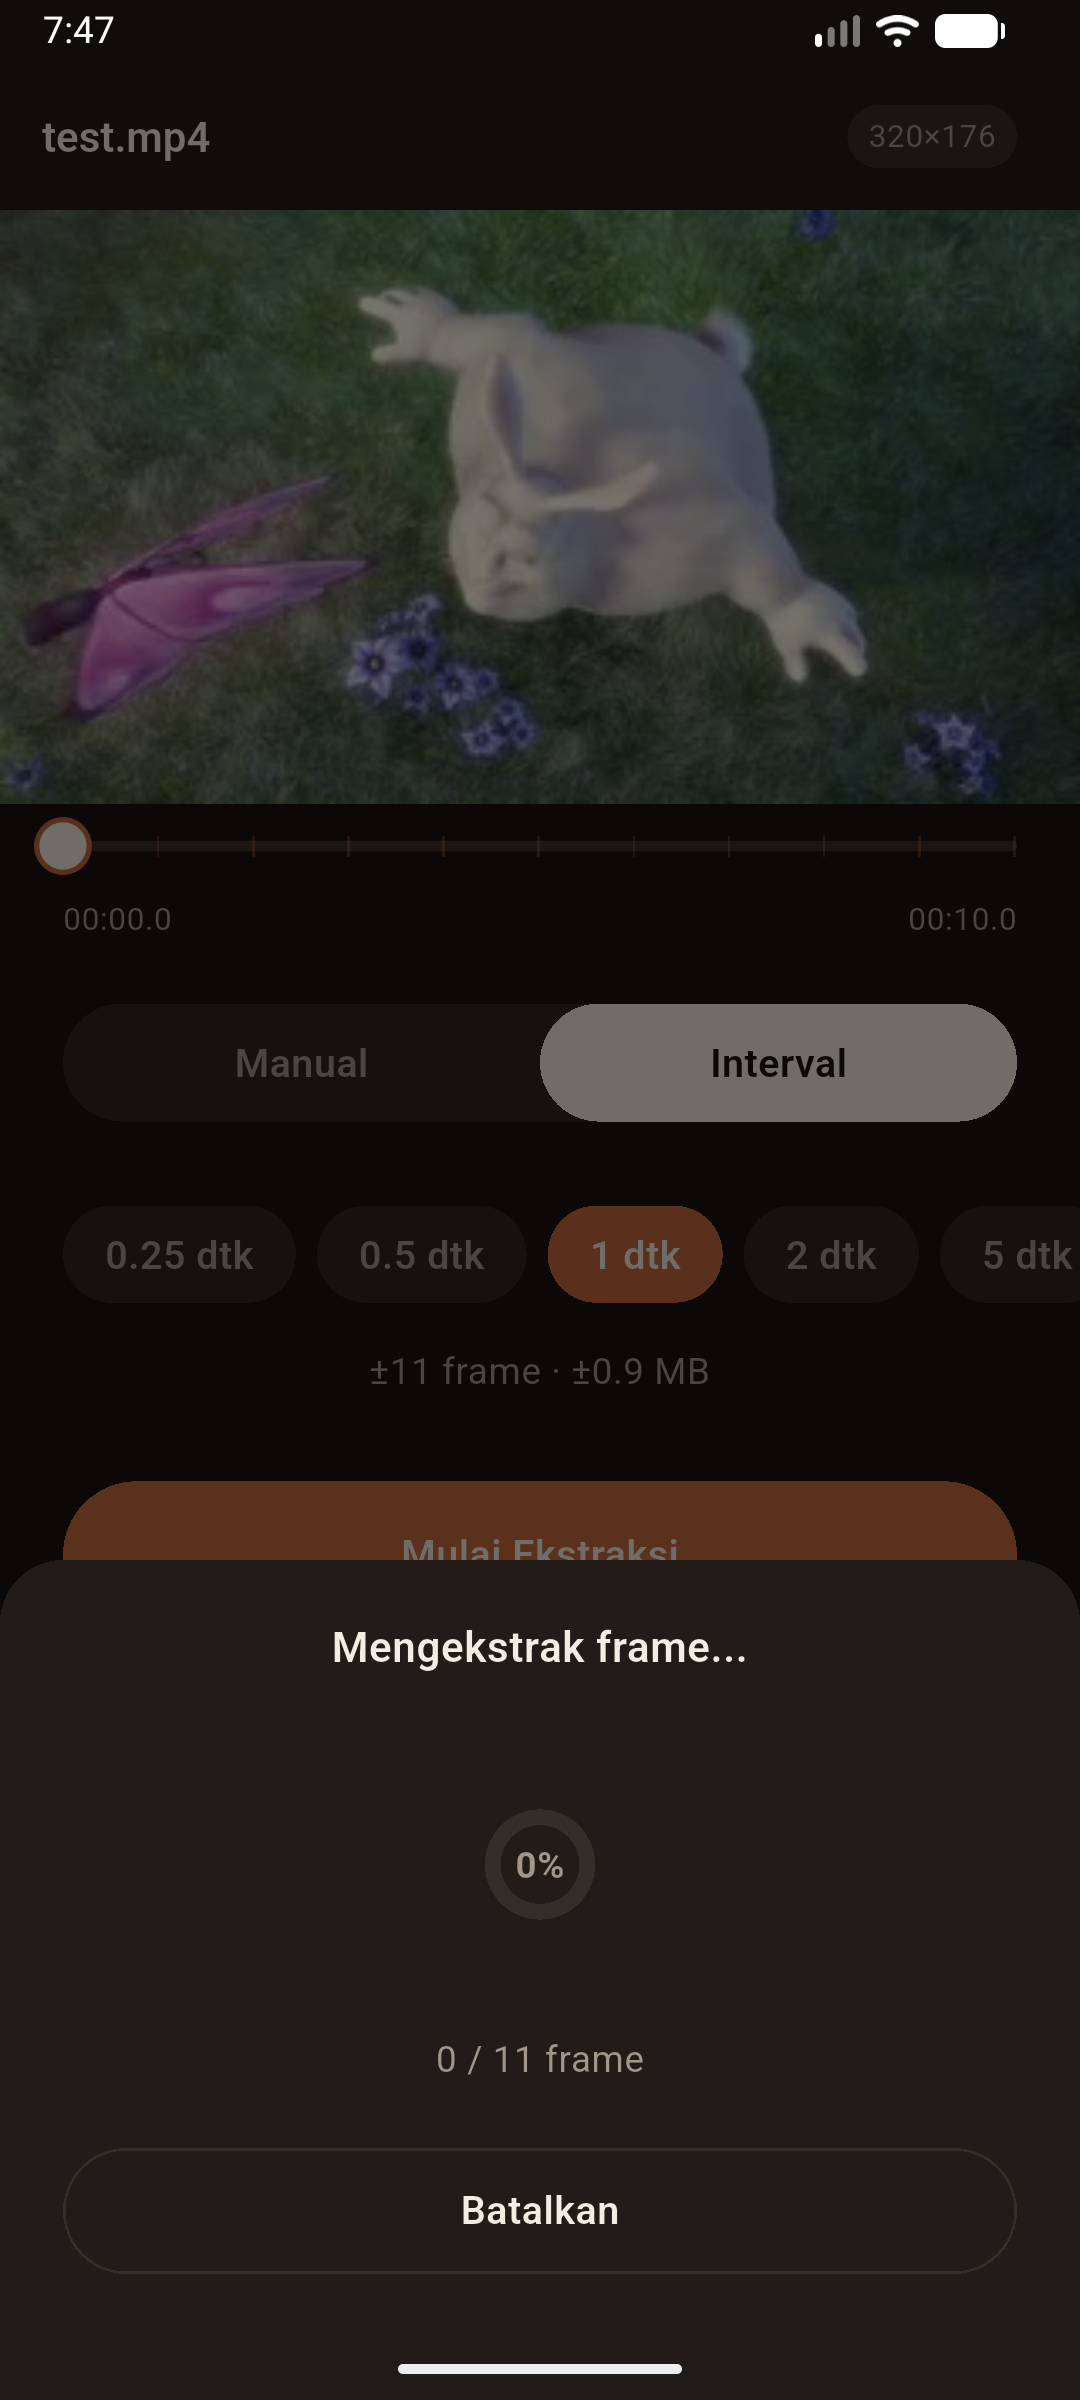
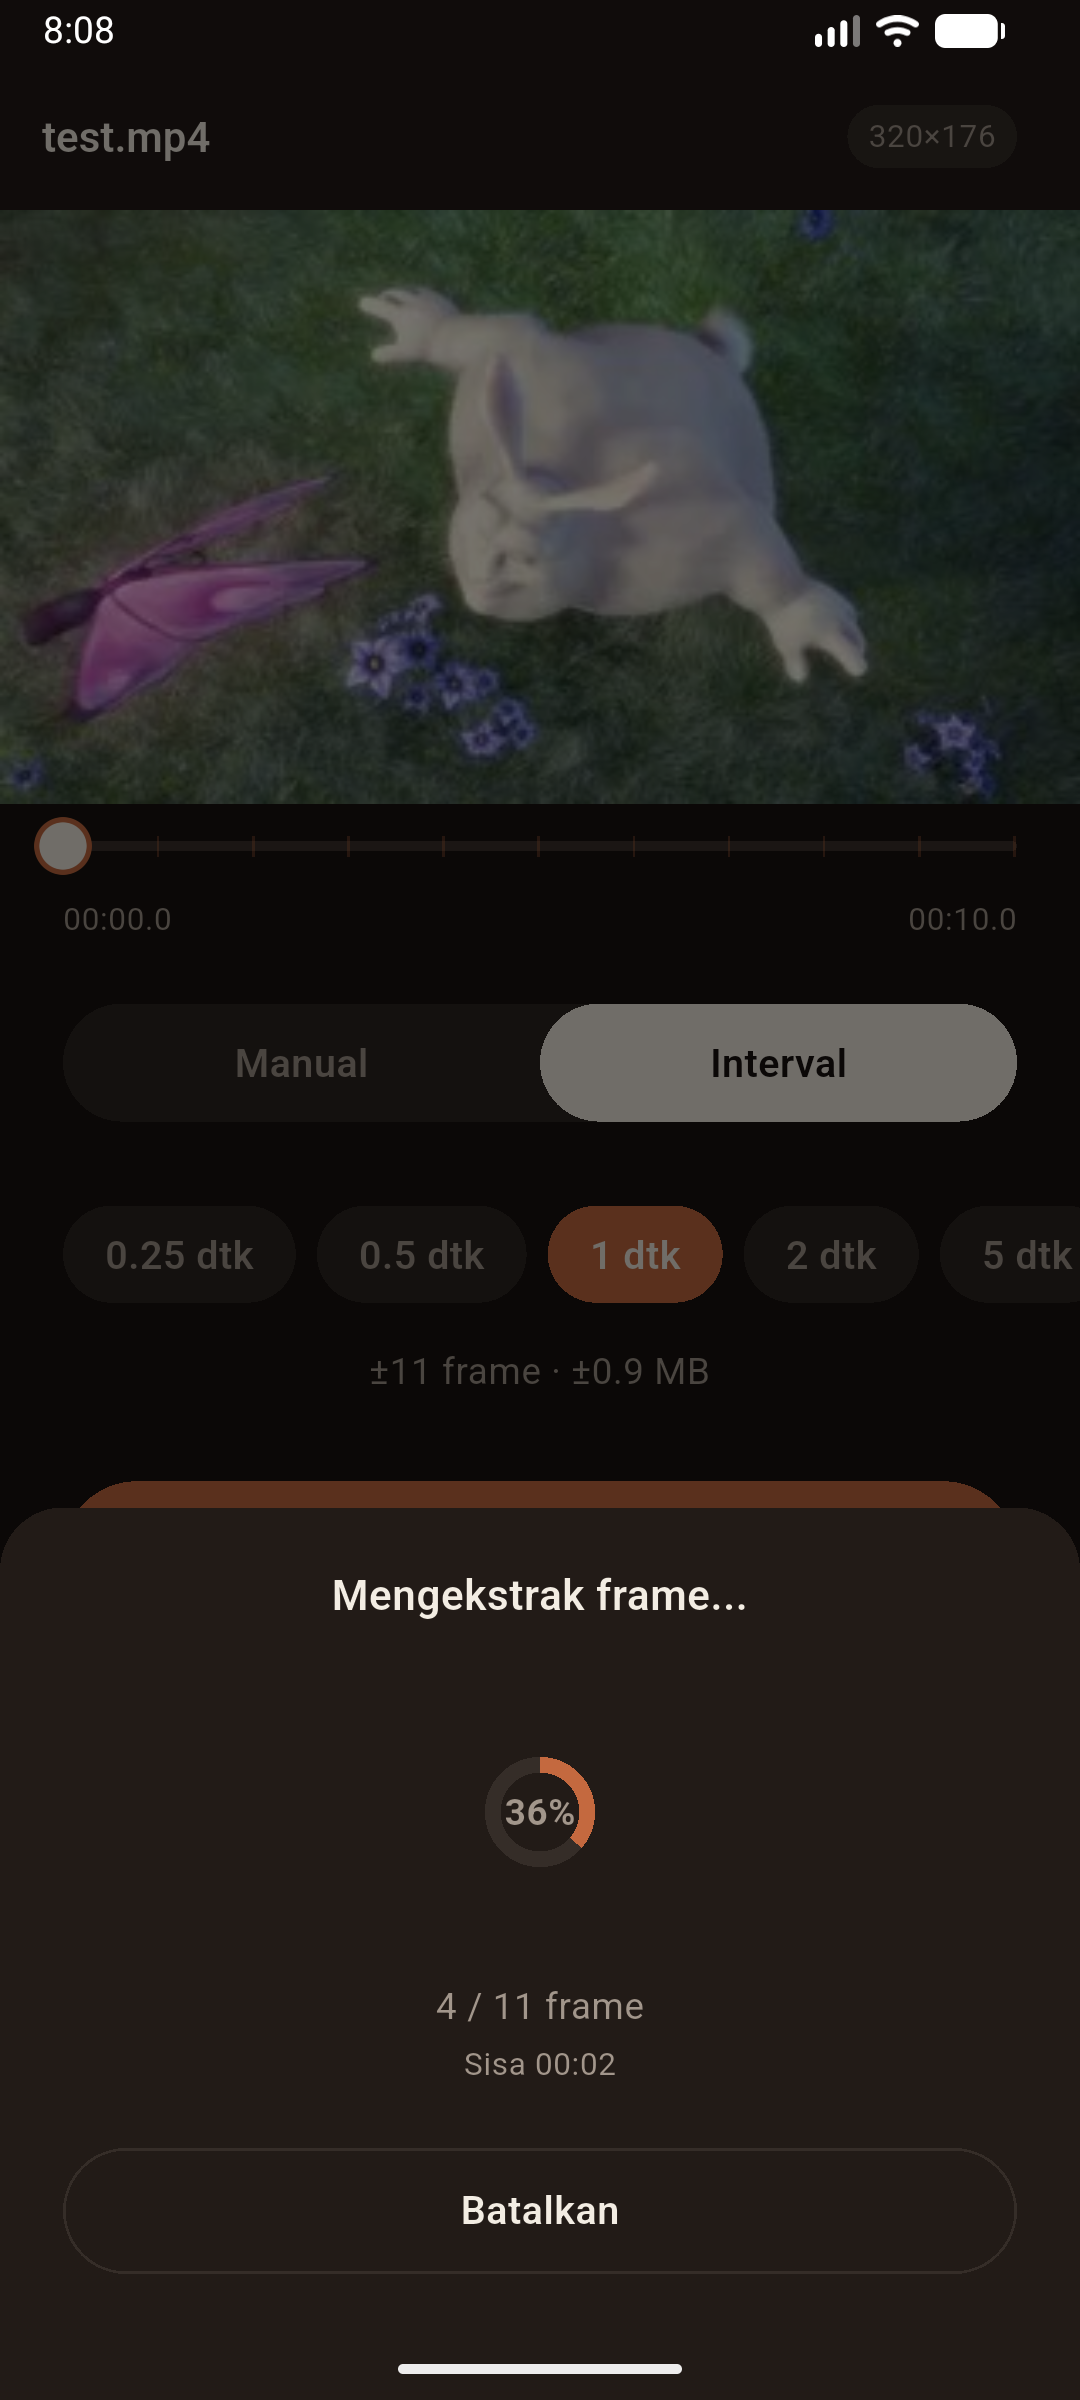
fix(tahap4): handle save frame result, wire l10n, exact decoding, and fresh evidence screenshots

diff --git a/lib/features/capture/capture_controller.dart b/lib/features/capture/capture_controller.dart
@@ -12,12 +12,11 @@ import '../../engine/frame_engine_channel.dart';
 import '../../engine/gallery_writer_channel.dart';
 import '../progress/extraction_progress_controller.dart';
 import 'capture_state.dart';
-
 export 'capture_state.dart';
 
 class CaptureController extends Notifier<CaptureState> {
-  final FrameEngineChannel _engine = FrameEngineChannel();
-  final GalleryWriterChannel _gallery = GalleryWriterChannel();
+  final _engine = FrameEngineChannel();
+  final _gallery = GalleryWriterChannel();
   final Map<double, Uint8List> _thumbCache = {};
   static const int _maxThumbCache = 20;
   bool _isCancelled = false;
@@ -55,9 +54,8 @@ class CaptureController extends Notifier<CaptureState> {
     fetchActiveFrame(state.currentTime);
   }
 
-  void selectInterval(double intervalS) {
-    state = state.copyWith(selectedInterval: intervalS);
-  }
+  void selectInterval(double intervalS) =>
+      state = state.copyWith(selectedInterval: intervalS);
 
   String _stem(String path) =>
       path.split(Platform.pathSeparator).last.split('.').first;
@@ -65,7 +63,6 @@ class CaptureController extends Notifier<CaptureState> {
   Future<String?> saveCurrentFrame() async {
     final video = state.videoInfo;
     if (video == null) return null;
-
     try {
       final bytes = await _engine.getFrame(state.currentTime, exact: true);
       final registry = GalleryNameRegistry(_gallery);
@@ -73,24 +70,23 @@ class CaptureController extends Notifier<CaptureState> {
         1,
         video.frameCount,
       );
-
-      final rawName = buildName(
+      final raw = buildName(
         stem: _stem(video.path),
         index: idx,
         ts: state.currentTime,
         ext: 'png',
         template: '{stem}_{index:06d}_{time}.{ext}',
       );
-      final filename = await uniqueName(registry, rawName);
+      final name = await uniqueName(registry, raw);
       final uri = await _gallery.writeImage(
         bytes: bytes,
-        displayName: filename,
+        displayName: name,
         mimeType: 'image/png',
       );
-      registry.recordCreated(filename);
-
-      final frames = {...state.savedFrames, state.currentTime};
-      state = state.copyWith(savedFrames: frames);
+      registry.recordCreated(name);
+      state = state.copyWith(
+        savedFrames: {...state.savedFrames, state.currentTime},
+      );
       return uri;
     } on OutputNotWritableException {
       return null;
@@ -99,78 +95,71 @@ class CaptureController extends Notifier<CaptureState> {
     }
   }
 
-  Future<void> startExtraction({String? errorMessage}) async {
+  Future<void> startExtraction({required String errorMessage}) async {
     final video = state.videoInfo;
     if (video == null) return;
-
+    final progress = ref.read(extractionProgressProvider.notifier);
     final opt = ExtractOptions(
       mode: CaptureMode.interval,
       intervalS: state.selectedInterval,
     );
-    final points = planPoints(video, opt);
-
+    final List<double> points;
+    try {
+      points = planPoints(video, opt);
+    } catch (_) {
+      progress.setError(errorMessage);
+      return;
+    }
     if (points.length > maxFrames) {
-      ref
-          .read(extractionProgressProvider.notifier)
-          .setError(
-            errorMessage ?? 'Batas maksimum $maxFrames frame terlampaui.',
-          );
+      progress.setError(errorMessage);
       return;
     }
 
     _isCancelled = false;
-    final progressNotifier = ref.read(extractionProgressProvider.notifier);
-    progressNotifier.start(points.length);
-
+    progress.start(points.length);
     final registry = GalleryNameRegistry(_gallery);
     final stem = _stem(video.path);
-    final stopwatch = Stopwatch()..start();
+    final sw = Stopwatch()..start();
 
     try {
       for (int i = 0; i < points.length; i++) {
         if (_isCancelled) {
-          progressNotifier.cancel(i);
+          progress.cancel(i);
           return;
         }
-
         final t = points[i];
-        final bytes = await _engine.getFrame(t, exact: false);
-        final rawName = buildName(
+        final bytes = await _engine.getFrame(t, exact: true);
+        final raw = buildName(
           stem: stem,
           index: i + 1,
           ts: t,
           ext: 'png',
           template: opt.template,
         );
-        final filename = await uniqueName(registry, rawName);
+        final name = await uniqueName(registry, raw);
         await _gallery.writeImage(
           bytes: bytes,
-          displayName: filename,
+          displayName: name,
           mimeType: 'image/png',
         );
-        registry.recordCreated(filename);
+        registry.recordCreated(name);
 
-        final elapsedMs = stopwatch.elapsedMilliseconds;
-        final avgMsPerFrame = elapsedMs / (i + 1);
-        final remainingMs = (avgMsPerFrame * (points.length - (i + 1))).round();
-
-        progressNotifier.updateProgress(
+        final avgMs = sw.elapsedMilliseconds / (i + 1);
+        final remMs = (avgMs * (points.length - (i + 1))).round();
+        progress.updateProgress(
           current: i + 1,
-          remaining: Duration(milliseconds: remainingMs),
+          remaining: Duration(milliseconds: remMs),
         );
       }
-
-      progressNotifier.complete(points.length);
+      progress.complete(points.length);
     } on OutputNotWritableException catch (e) {
-      progressNotifier.setError(e.message);
+      progress.setError(e.message);
     } catch (e) {
-      progressNotifier.setError(e.toString());
+      progress.setError(e.toString());
     }
   }
 
-  void cancelExtraction() {
-    _isCancelled = true;
-  }
+  void cancelExtraction() => _isCancelled = true;
 
   Future<bool> openGallery() => _gallery.openGallery();
 

diff --git a/lib/features/capture/widgets/capture_bottom_bar.dart b/lib/features/capture/widgets/capture_bottom_bar.dart
@@ -1,3 +1,5 @@
+import 'dart:async';
+
 import 'package:flutter/material.dart';
 import 'package:flutter_riverpod/flutter_riverpod.dart';
 import 'package:sela/l10n/generated/app_localizations.dart';
@@ -32,12 +34,17 @@ class CaptureBottomBar extends ConsumerWidget {
                   borderRadius: SelaRadius.pillBorderRadius,
                 ),
               ),
-              onPressed: () {
+              onPressed: () async {
                 if (state.isExactMode) {
-                  ref.read(captureProvider.notifier).saveCurrentFrame();
-                  ScaffoldMessenger.of(context).showSnackBar(
-                    SnackBar(content: Text(l10n.singleFrameSaved)),
-                  );
+                  final uri = await ref
+                      .read(captureProvider.notifier)
+                      .saveCurrentFrame();
+                  if (!context.mounted) return;
+                  final msg = uri != null
+                      ? l10n.singleFrameSaved
+                      : l10n.errorSaveFrame;
+                  ScaffoldMessenger.of(context)
+                      .showSnackBar(SnackBar(content: Text(msg)));
                 } else {
                   if (state.estimatedFrameCount > maxFrames) {
                     ScaffoldMessenger.of(context).showSnackBar(
@@ -47,12 +54,14 @@ class CaptureBottomBar extends ConsumerWidget {
                     );
                     return;
                   }
-                  ProgressSheet.show(context);
-                  ref
-                      .read(captureProvider.notifier)
-                      .startExtraction(
-                        errorMessage: l10n.errorMaxFramesExceeded(maxFrames),
-                      );
+                  unawaited(ProgressSheet.show(context));
+                  unawaited(
+                    ref
+                        .read(captureProvider.notifier)
+                        .startExtraction(
+                          errorMessage: l10n.errorMaxFramesExceeded(maxFrames),
+                        ),
+                  );
                 }
               },
               child: Text(

diff --git a/lib/features/capture/capture_state.dart b/lib/features/capture/capture_state.dart
@@ -38,20 +38,25 @@ class CaptureState {
     );
   }
 
+  int get estimatedFrameCount {
+    if (videoInfo == null || selectedInterval <= 0) return 0;
+    final duration = videoInfo!.durationS;
+    if (!duration.isFinite || duration <= 0) return 0;
+    return ((duration - 1e-9) / selectedInterval).floor() + 1;
+  }
+
   List<double> get intervalPoints {
-    if (videoInfo == null) return const [];
+    if (videoInfo == null || estimatedFrameCount > maxFrames) return const [];
     try {
       final opt = ExtractOptions(
         mode: CaptureMode.interval,
         intervalS: selectedInterval,
       );
       return planPoints(videoInfo!, opt);
-    } catch (e) {
+    } catch (_) {
       return const [];
     }
   }
-
-  int get estimatedFrameCount => intervalPoints.length;
 
   String get estimatedSizeMb {
     if (videoInfo == null) return '0';
